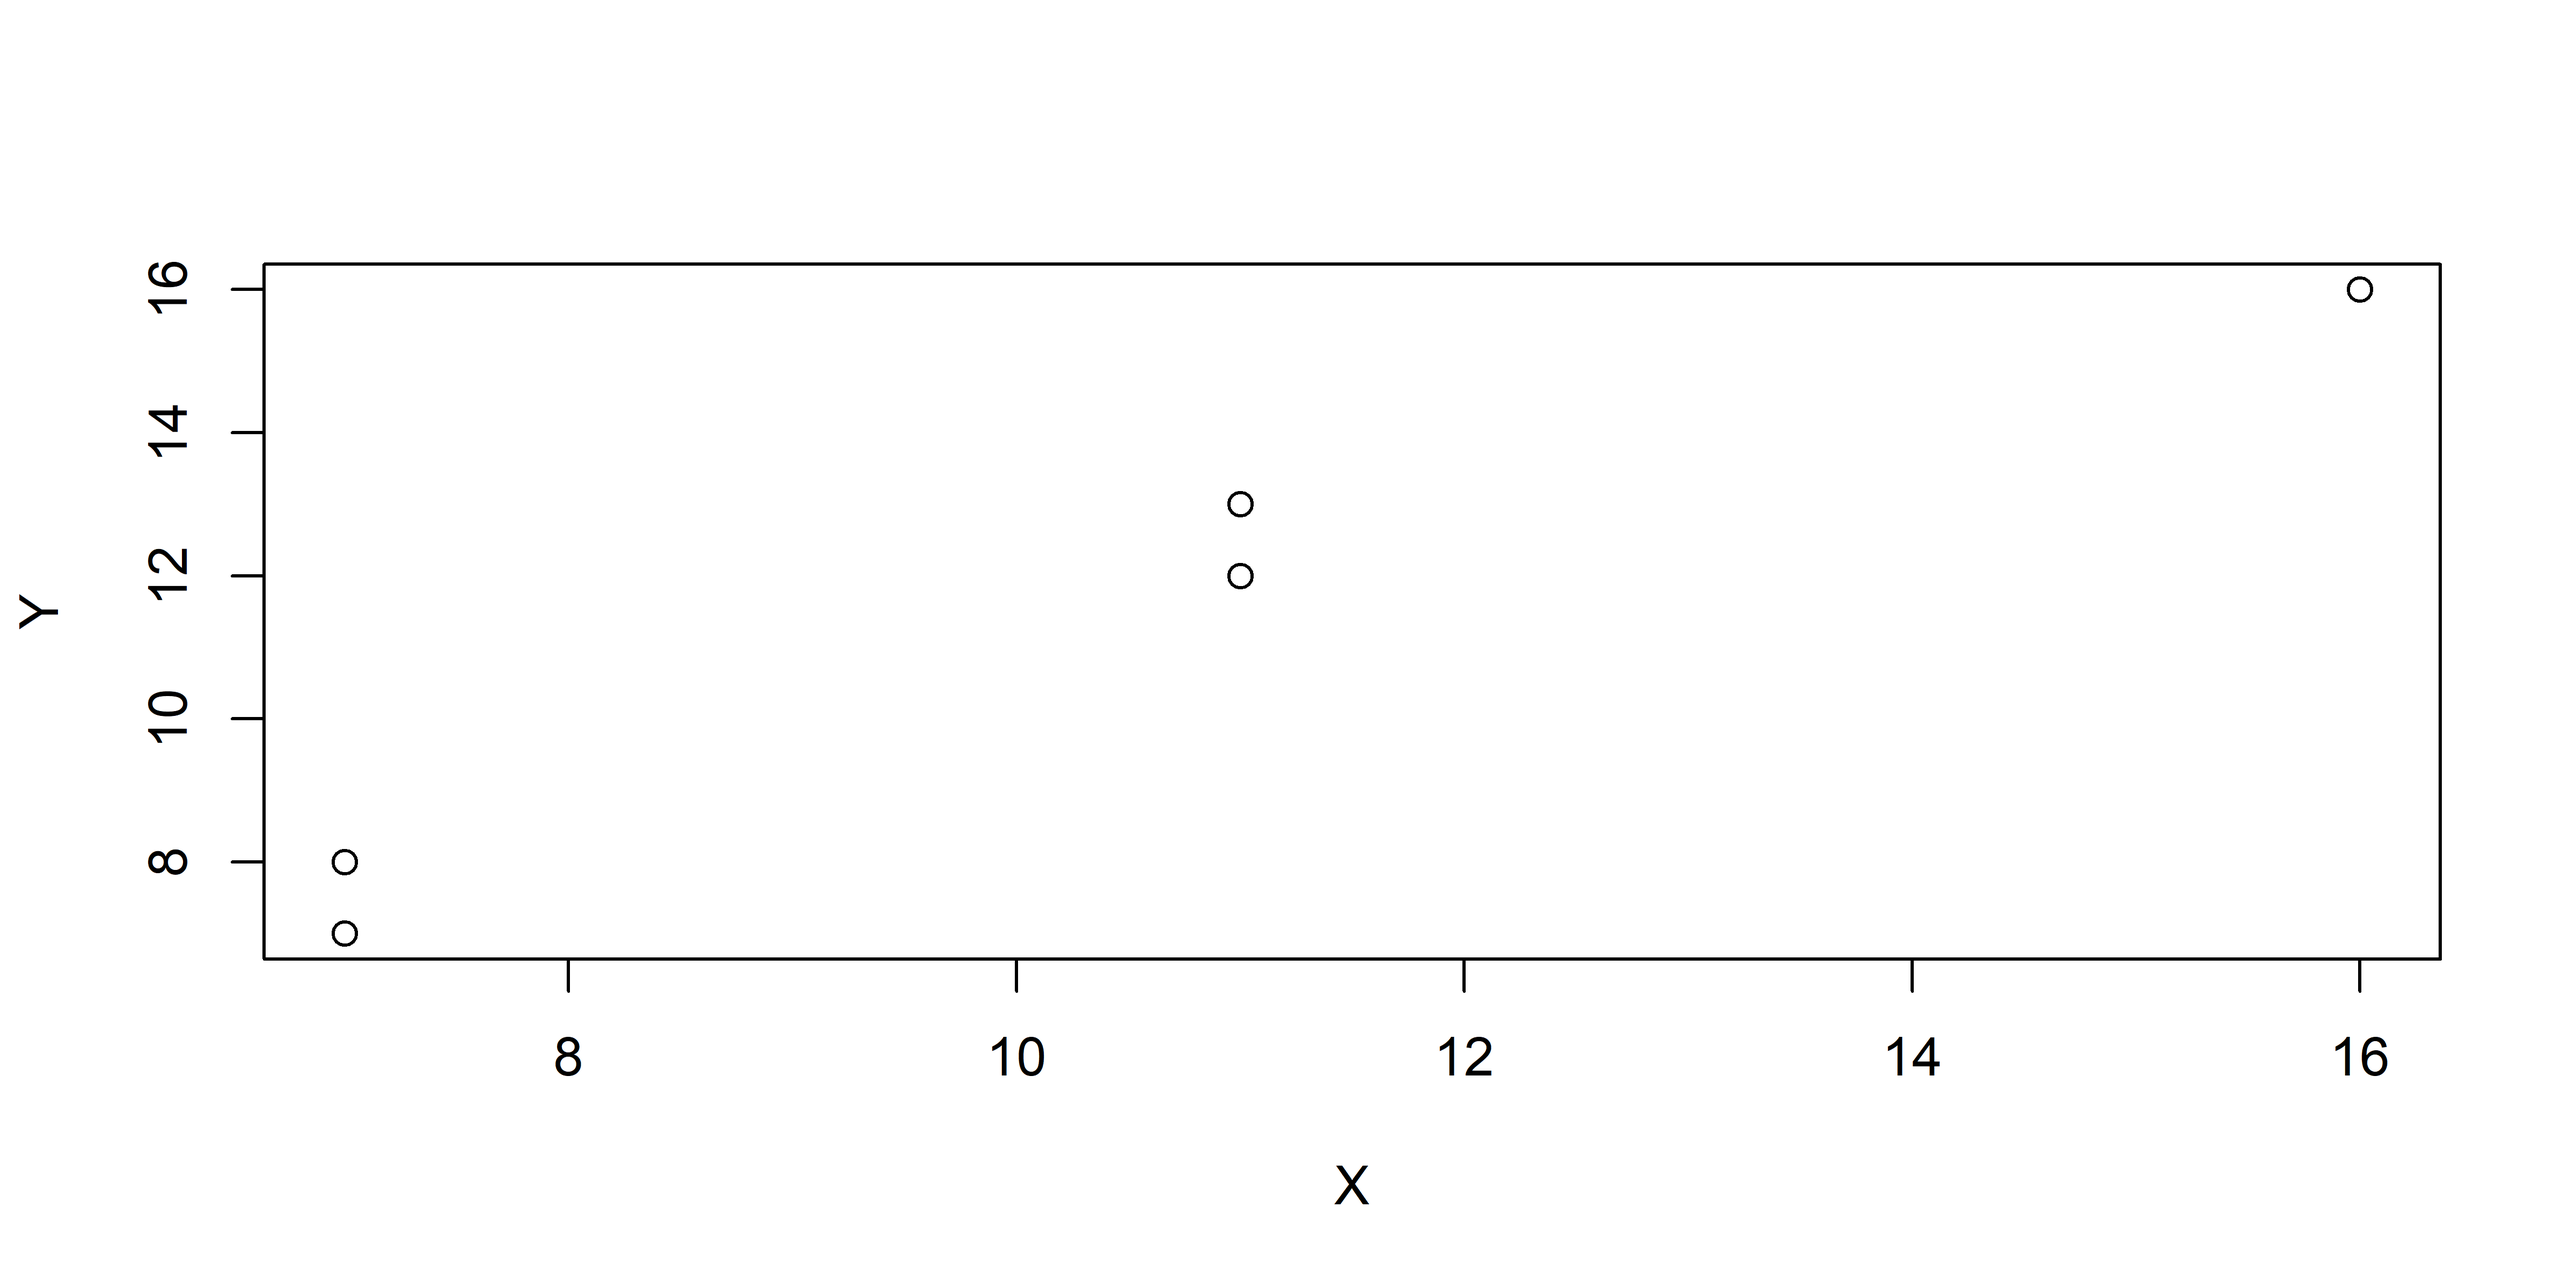
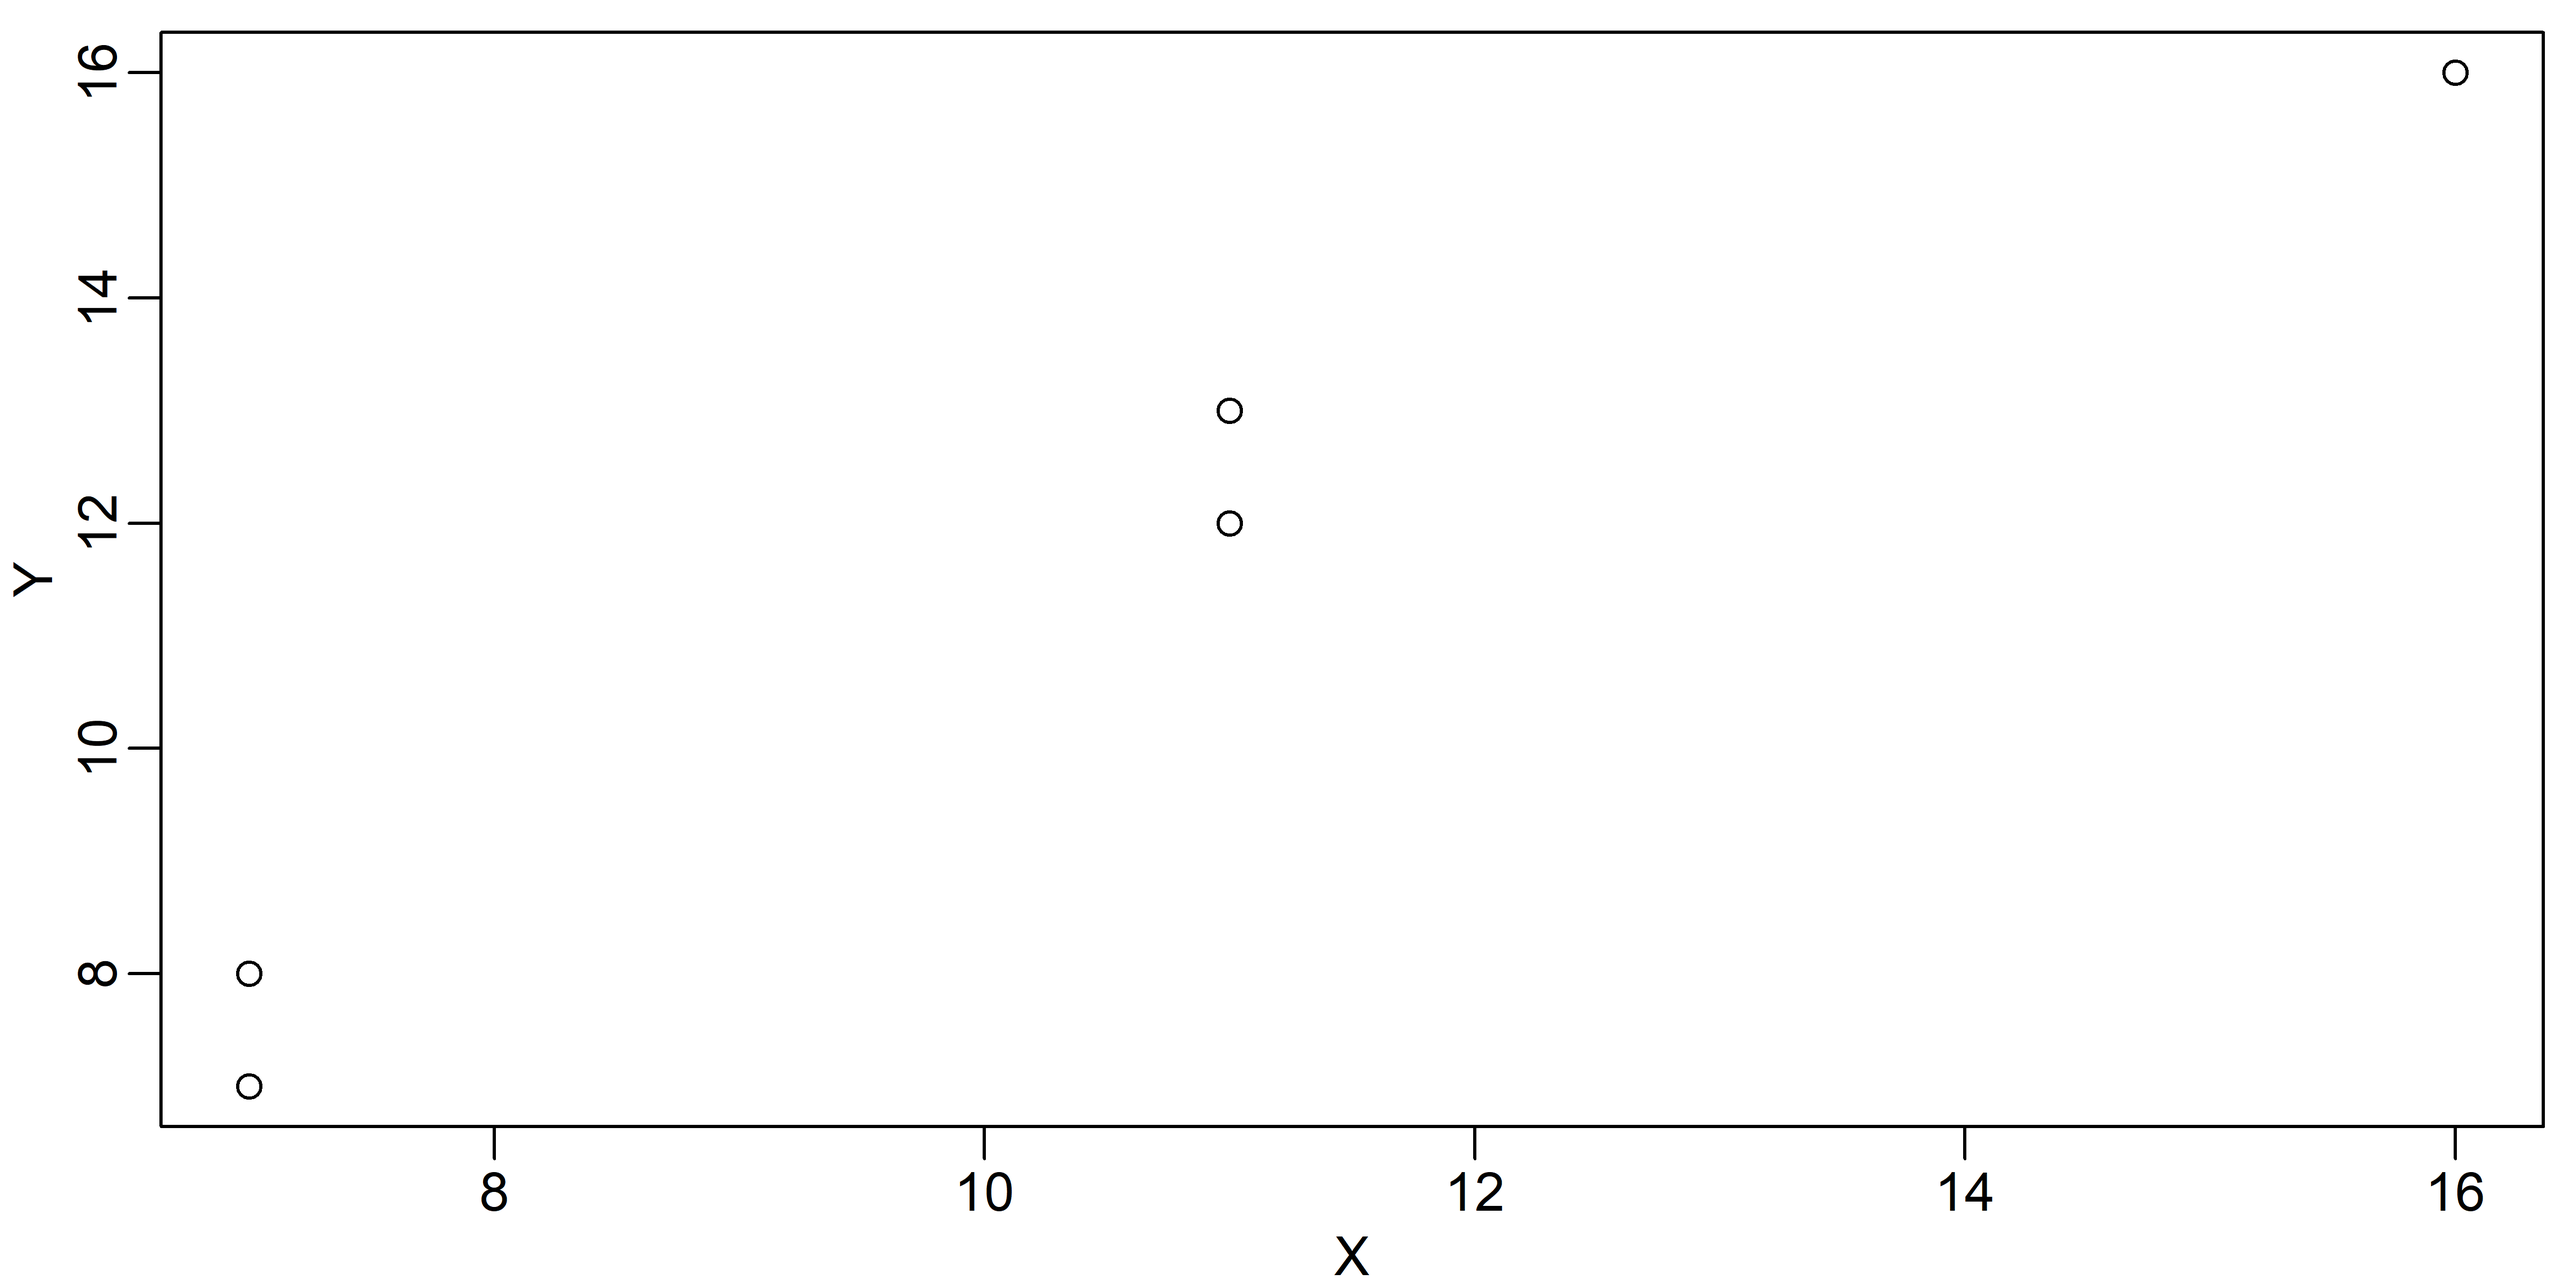
second

diff --git a/_site/lista.html b/_site/lista.html
@@ -693,7 +693,8 @@ code span.wa { color: #60a0b0; font-weight: bold; font-style: italic; } /* Warni
 </ul>
 <div class="cell" data-layout-align="center">
 <div class="sourceCode cell-code" id="cb46"><pre class="sourceCode r code-with-copy"><code class="sourceCode r"><span id="cb46-1"><a href="#cb46-1" aria-hidden="true" tabindex="-1"></a><span class="fu">par</span>(<span class="at">bg=</span><span class="st">"white"</span>)</span>
-<span id="cb46-2"><a href="#cb46-2" aria-hidden="true" tabindex="-1"></a><span class="fu">plot</span>(Y<span class="sc">~</span>X, dados3) </span></code><button title="Copy to Clipboard" class="code-copy-button"><i class="bi"></i></button></pre></div>
+<span id="cb46-2"><a href="#cb46-2" aria-hidden="true" tabindex="-1"></a><span class="fu">par</span>(<span class="at">mar=</span><span class="fu">c</span>(<span class="fl">2.5</span>,<span class="fl">2.5</span>,<span class="fl">0.5</span>,<span class="fl">0.5</span>), <span class="at">mgp=</span><span class="fu">c</span>(<span class="fl">1.5</span>,<span class="fl">0.5</span>,<span class="dv">0</span>))</span>
+<span id="cb46-3"><a href="#cb46-3" aria-hidden="true" tabindex="-1"></a><span class="fu">plot</span>(Y<span class="sc">~</span>X, dados3) </span></code><button title="Copy to Clipboard" class="code-copy-button"><i class="bi"></i></button></pre></div>
 <div class="cell-output-display">
 <div class="quarto-figure quarto-figure-center">
 <figure class="figure">
@@ -788,7 +789,8 @@ code span.wa { color: #60a0b0; font-weight: bold; font-style: italic; } /* Warni
 </ul>
 <div class="cell" data-layout-align="center">
 <div class="sourceCode cell-code" id="cb55"><pre class="sourceCode r code-with-copy"><code class="sourceCode r"><span id="cb55-1"><a href="#cb55-1" aria-hidden="true" tabindex="-1"></a><span class="fu">par</span>(<span class="at">bg=</span><span class="st">"white"</span>)</span>
-<span id="cb55-2"><a href="#cb55-2" aria-hidden="true" tabindex="-1"></a><span class="fu">plot</span>(SIM<span class="sc">~</span>ME,<span class="at">data =</span> dados4) </span></code><button title="Copy to Clipboard" class="code-copy-button"><i class="bi"></i></button></pre></div>
+<span id="cb55-2"><a href="#cb55-2" aria-hidden="true" tabindex="-1"></a><span class="fu">par</span>(<span class="at">mar=</span><span class="fu">c</span>(<span class="fl">2.5</span>,<span class="fl">2.5</span>,<span class="fl">0.5</span>,<span class="fl">0.5</span>), <span class="at">mgp=</span><span class="fu">c</span>(<span class="fl">1.5</span>,<span class="fl">0.5</span>,<span class="dv">0</span>))</span>
+<span id="cb55-3"><a href="#cb55-3" aria-hidden="true" tabindex="-1"></a><span class="fu">plot</span>(SIM<span class="sc">~</span>ME,<span class="at">data =</span> dados4) </span></code><button title="Copy to Clipboard" class="code-copy-button"><i class="bi"></i></button></pre></div>
 <div class="cell-output-display">
 <div class="quarto-figure quarto-figure-center">
 <figure class="figure">
@@ -891,7 +893,8 @@ code span.wa { color: #60a0b0; font-weight: bold; font-style: italic; } /* Warni
 </ul>
 <div class="cell" data-layout-align="center">
 <div class="sourceCode cell-code" id="cb64"><pre class="sourceCode r code-with-copy"><code class="sourceCode r"><span id="cb64-1"><a href="#cb64-1" aria-hidden="true" tabindex="-1"></a><span class="fu">par</span>(<span class="at">bg=</span><span class="st">"white"</span>)</span>
-<span id="cb64-2"><a href="#cb64-2" aria-hidden="true" tabindex="-1"></a><span class="fu">plot</span>(Gordura<span class="sc">~</span>Tempo,<span class="at">data =</span> dados5) </span></code><button title="Copy to Clipboard" class="code-copy-button"><i class="bi"></i></button></pre></div>
+<span id="cb64-2"><a href="#cb64-2" aria-hidden="true" tabindex="-1"></a><span class="fu">par</span>(<span class="at">mar=</span><span class="fu">c</span>(<span class="fl">2.5</span>,<span class="fl">2.5</span>,<span class="fl">0.5</span>,<span class="fl">0.5</span>), <span class="at">mgp=</span><span class="fu">c</span>(<span class="fl">1.5</span>,<span class="fl">0.5</span>,<span class="dv">0</span>))</span>
+<span id="cb64-3"><a href="#cb64-3" aria-hidden="true" tabindex="-1"></a><span class="fu">plot</span>(Gordura<span class="sc">~</span>Tempo,<span class="at">data =</span> dados5) </span></code><button title="Copy to Clipboard" class="code-copy-button"><i class="bi"></i></button></pre></div>
 <div class="cell-output-display">
 <div class="quarto-figure quarto-figure-center">
 <figure class="figure">
